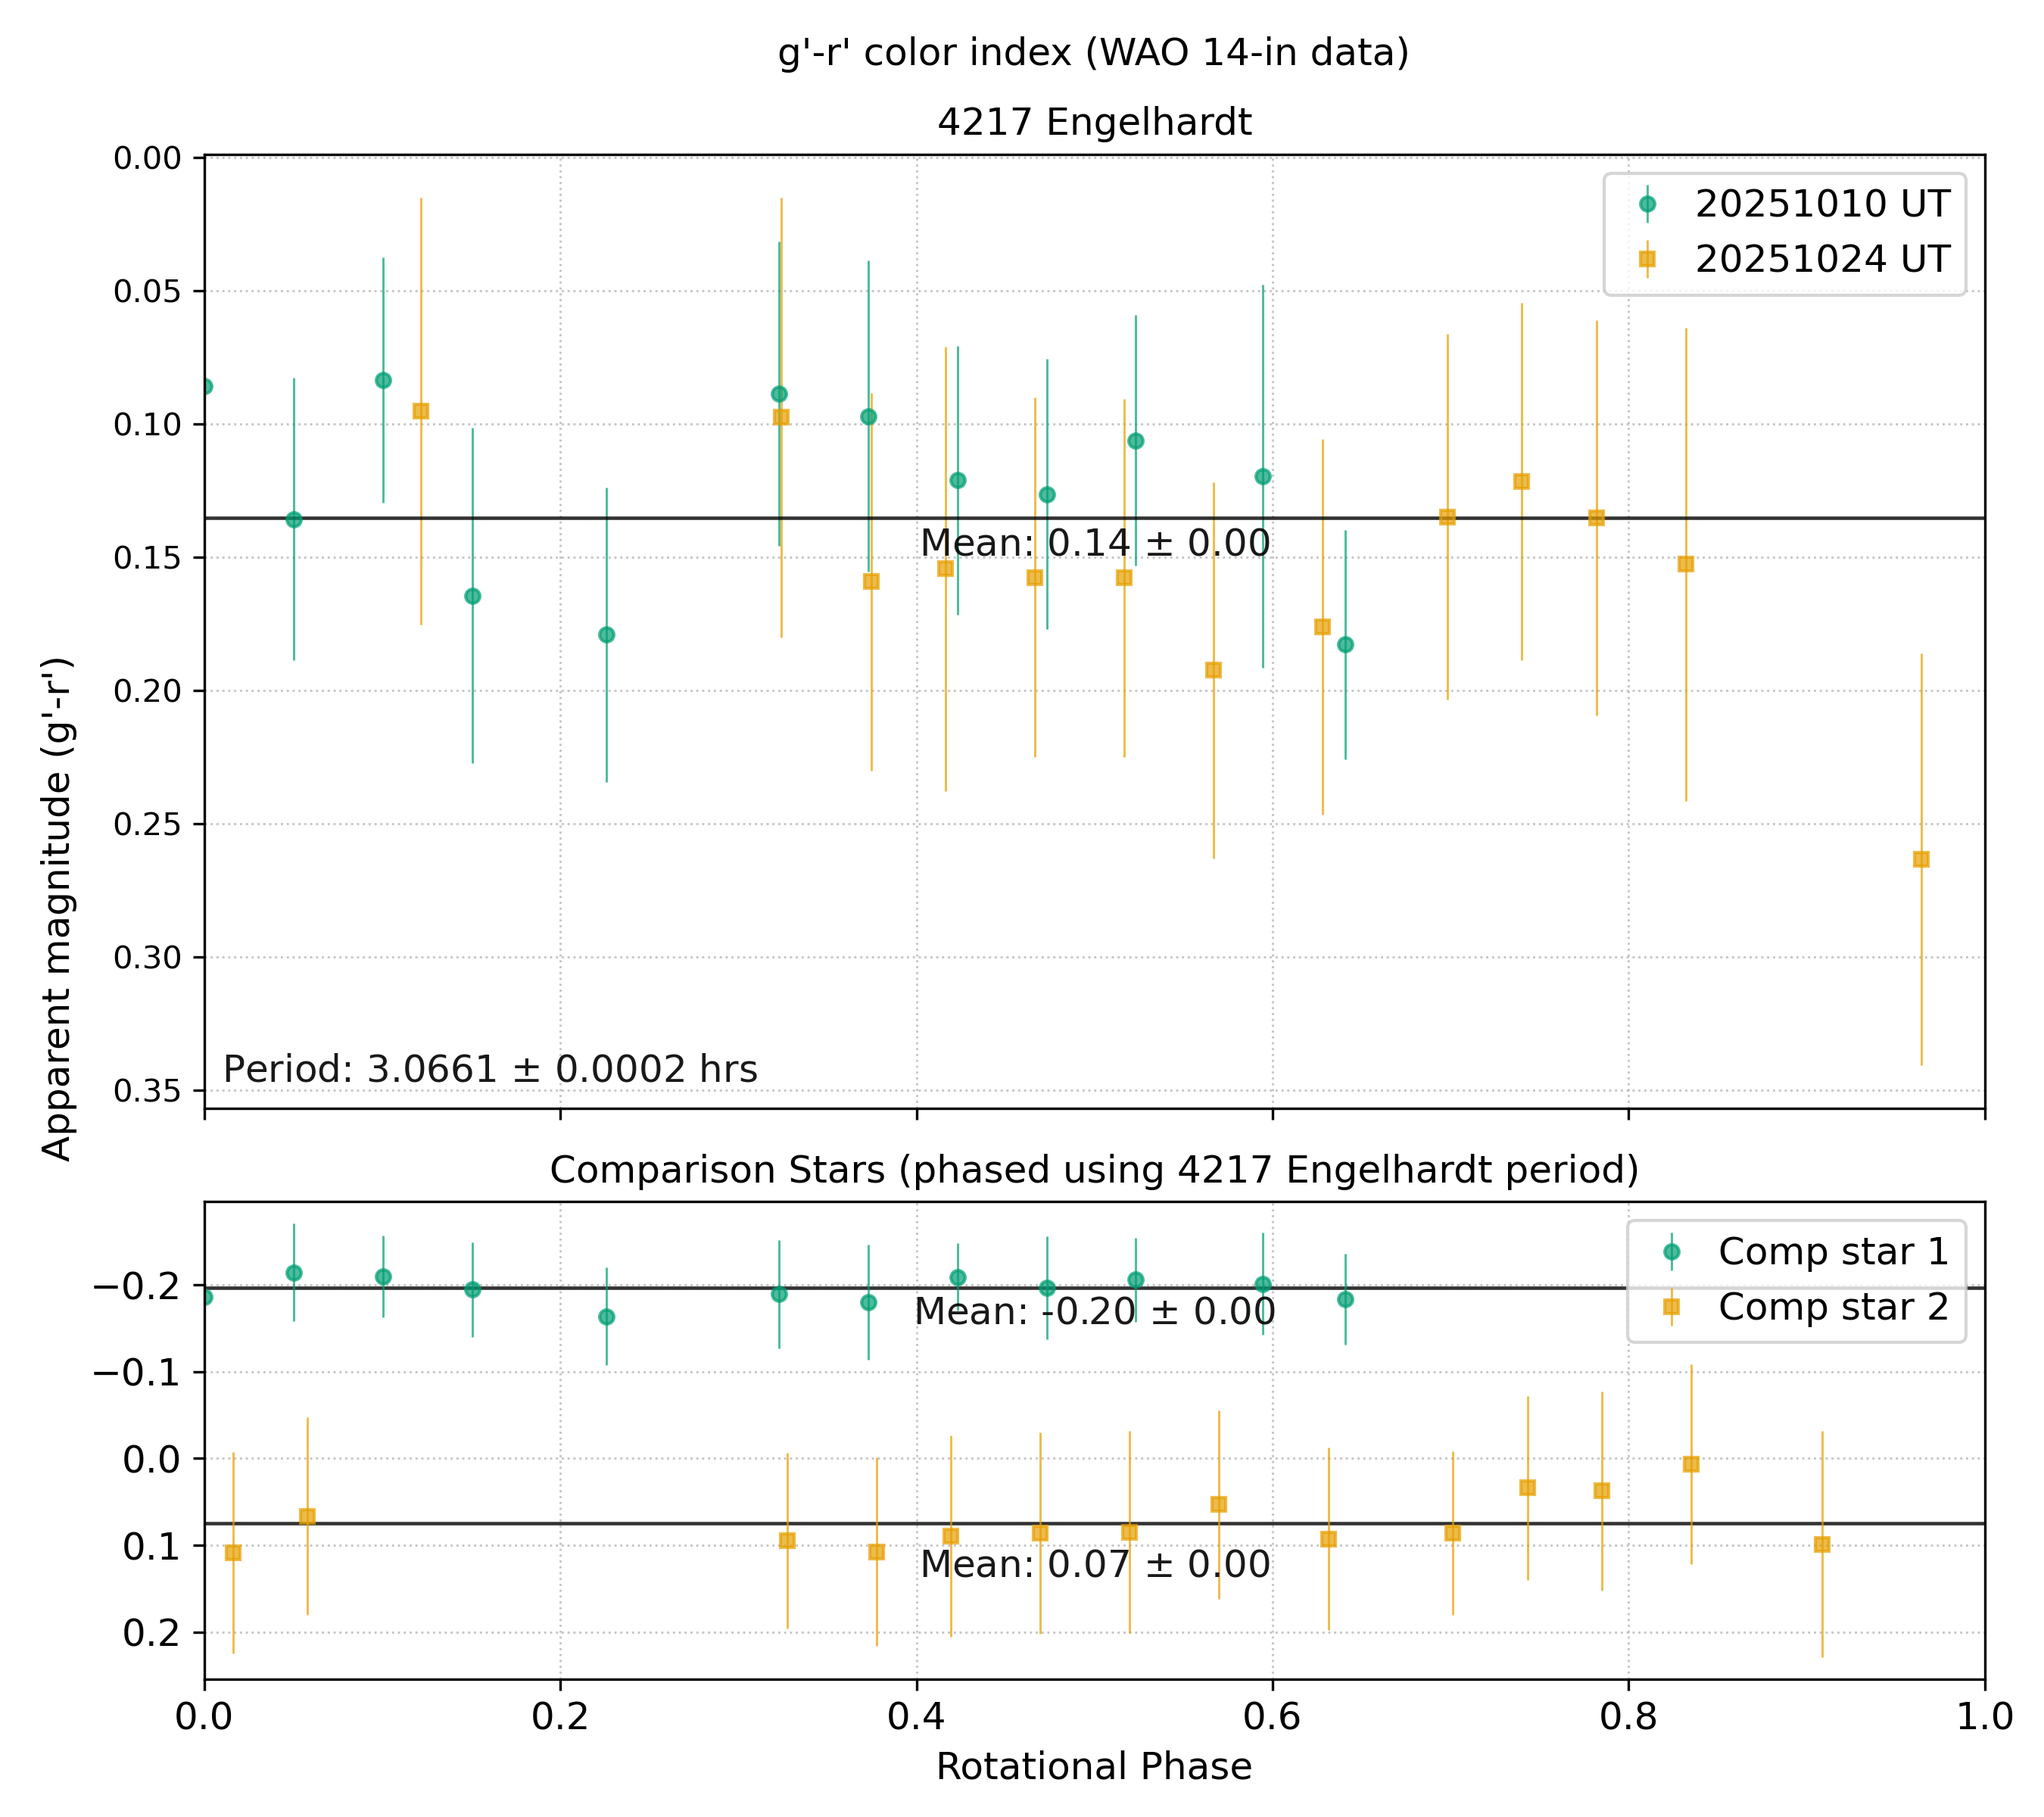
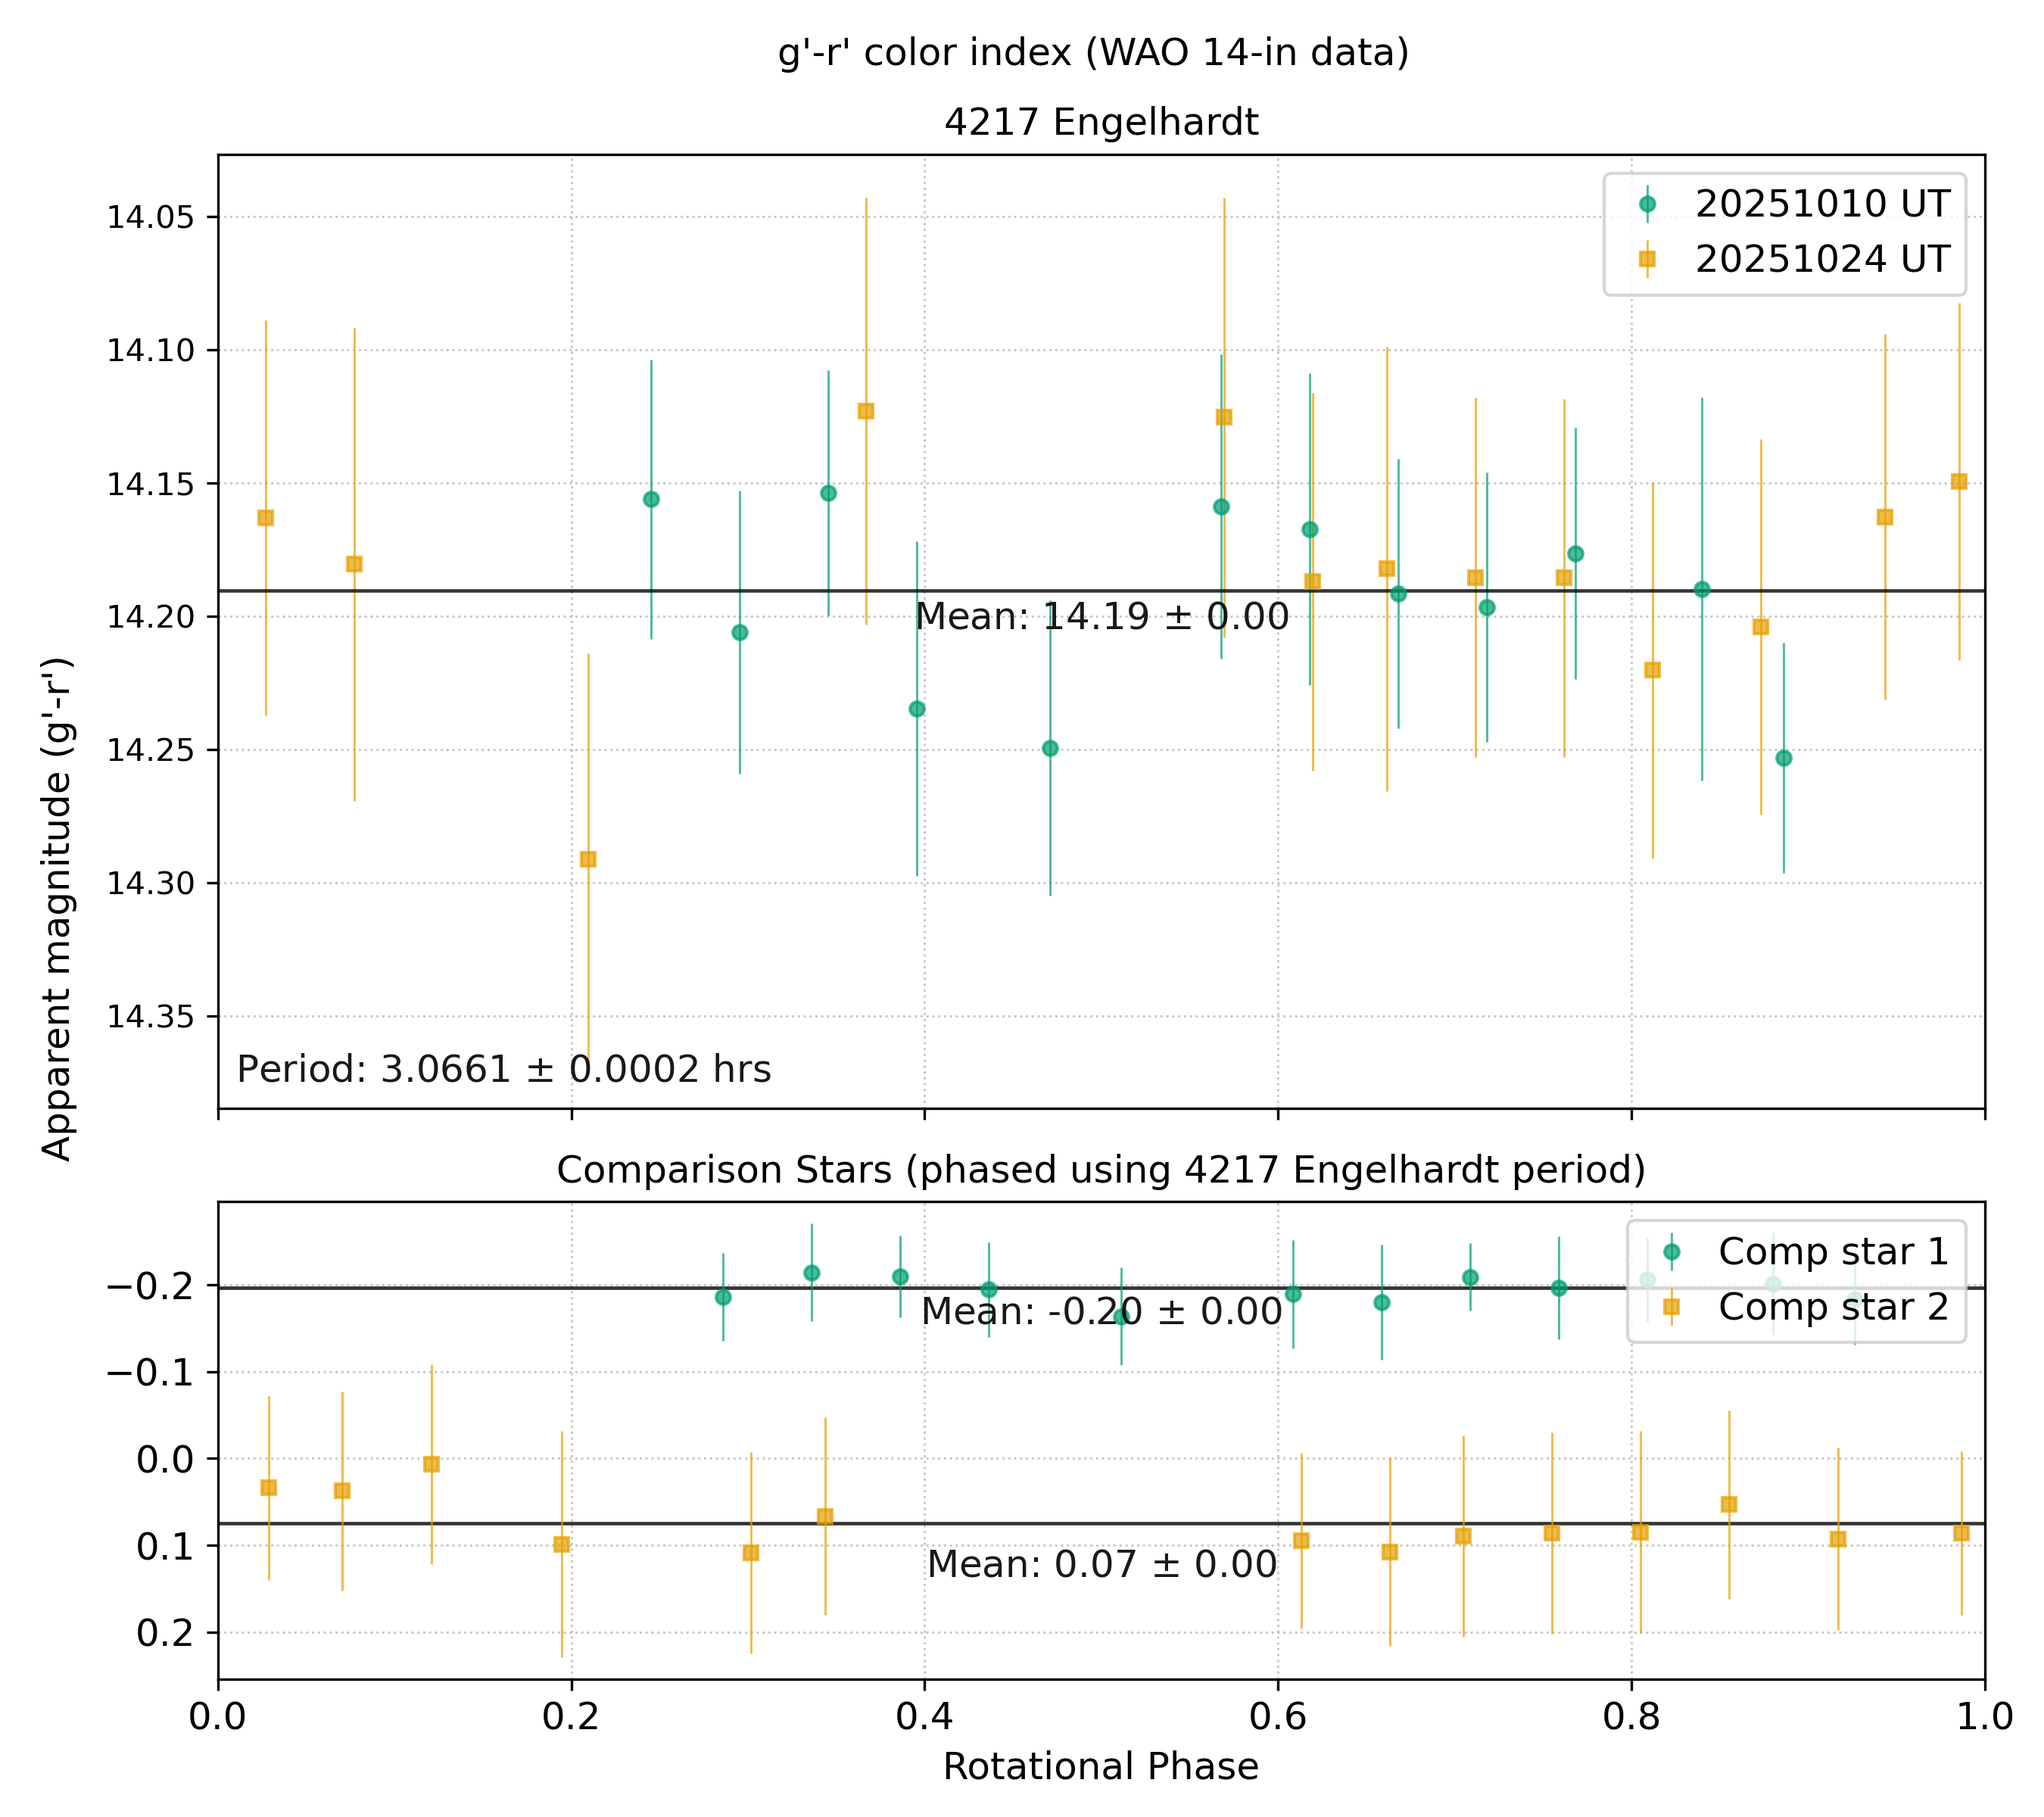
done done

diff --git a/plotg.py b/plotg.py
@@ -6,7 +6,7 @@ from scipy.optimize import curve_fit
 from astropy.stats import sigma_clip
 
 CSV_PATH = "g'.csv"
-JD0 = 2460958.552769
+JD0 = 2460937.567619
 P_HOURS = 3.0661
 gap_days = 0.50
 title = "g' light curve of 4217 Engelhardt (WAO 14-in data)"
@@ -109,7 +109,7 @@ weight_sum = np.sum(w)
 mean_err = np.sqrt(variance / weight_sum)
 
 ax1.axhline(mean_val, color='k', linestyle=':', linewidth=1.1, alpha=0.8)
-ax1.text(0.775, mean_val, f'Mean: {mean_val:.2f} $\\pm$ {mean_err:.2f}', 
+ax1.text(0.278, mean_val + 0.015, f'Mean: {mean_val:.2f} $\\pm$ {mean_err:.2f}', 
          ha='center', va='bottom', alpha=0.9, fontsize=12)
 
 period_text = f'Period: {P_HOURS} $\\pm$ 0.0002 hrs'
@@ -128,7 +128,7 @@ ax1.legend(loc="upper left", frameon=True, handlelength=1.5, handletextpad=0.5, 
 
 # Create inset axes for residuals with exact position control
 # [left, bottom, width, height] in figure coordinates (0-1)
-left = 0.47    # Distance from left edge
+left = 0.63    # Distance from left edge
 bottom = 0.155  # Distance from bottom edge  
 width = 0.19   # Width of inset
 height = 0.19  # Height of inset

diff --git a/comparison.py b/comparison.py
@@ -37,7 +37,7 @@ e_ast = np.array(e_ast)
 P_HOURS = 3.0661
 P_days = P_HOURS / 24.0
 gap_days = 0.50
-JD0_ast = 2460958.55063
+JD0_ast = 2460937.567619
 phi_ast = ((t_ast - JD0_ast) / P_days) % 1.0
 
 dt_ast = np.diff(t_ast, prepend=t_ast[0])
@@ -107,7 +107,7 @@ t_comp = np.array(t_comp)
 m_comp = np.array(m_comp)
 e_comp = np.array(e_comp)
 
-JD0_comp = 2460958.5558045
+JD0_comp = 2460937.567619
 phi_comp = ((t_comp - JD0_comp) / P_days) % 1.0
 
 dt_comp = np.diff(t_comp, prepend=t_comp[0])

diff --git a/plot.py b/plot.py
@@ -24,6 +24,7 @@ dt = np.diff(t, prepend=t[0])
 night_id = np.zeros_like(t, dtype=int)
 for i in range(0, len(t)):
     night_id[i] = night_id[i-1] + (dt[i] > gap_days)
+    print(night_id[i], np.mean(m[i]))
     if night_id[i] == 1:
         new_m.append(m[i]-0.1295071438)
     else:
